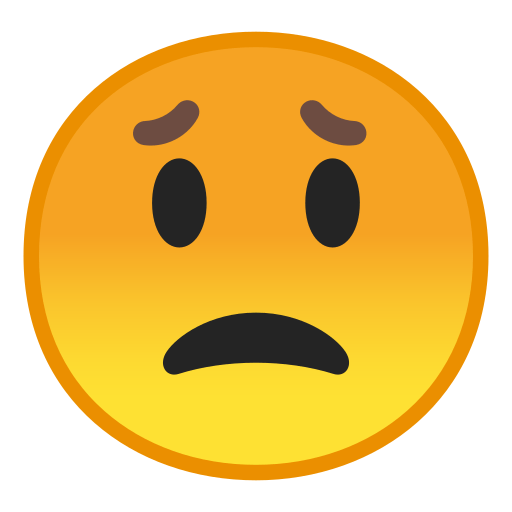
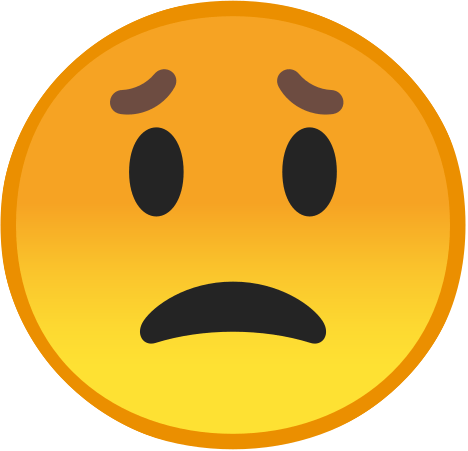
Hoo ha

diff --git a/templates/dashboard.html b/templates/dashboard.html
@@ -8,12 +8,76 @@
     <script src="https://cdnjs.cloudflare.com/ajax/libs/popper.js/1.16.0/umd/popper.min.js"></script>
     <script src="https://maxcdn.bootstrapcdn.com/bootstrap/4.4.1/js/bootstrap.min.js"></script>
     <script type="text/javascript" src="https://cdn.jsdelivr.net/npm/chart.js@2.9.3/dist/Chart.min.js"></script>
+    <link rel="stylesheet" href="https://cdnjs.cloudflare.com/ajax/libs/font-awesome/4.7.0/css/font-awesome.min.css">
     <title>Dashboard | MoodOfTheNation</title>
     <link rel="stylesheet" href="{{url_for('static', filename='styles.css')}}">
-    
+    <style>
+        h2{
+            font:Arial, Helvetica, sans-serif
+        }
+    .switch {
+      position: relative;
+      display: inline-block;
+      width: 60px;
+      height: 34px;
+    }
+
+    .switch input { 
+      opacity: 0;
+      width: 0;
+      height: 0;
+    }
+
+    .slider {
+      position: absolute;
+      cursor: pointer;
+      top: 0;
+      left: 0;
+      right: 0;
+      bottom: 0;
+      background-color: #ccc;
+      -webkit-transition: .4s;
+      transition: .4s;
+    }
+
+    .slider:before {
+      position: absolute;
+      content: "";
+      height: 26px;
+      width: 26px;
+      left: 4px;
+      bottom: 4px;
+      background-color: white;
+      -webkit-transition: .4s;
+      transition: .4s;
+    }
+
+    input:checked + .slider {
+      background-color: #2196F3;
+    }
+
+    input:focus + .slider {
+      box-shadow: 0 0 1px #2196F3;
+    }
+
+    input:checked + .slider:before {
+      -webkit-transform: translateX(26px);
+      -ms-transform: translateX(26px);
+      transform: translateX(26px);
+    }
+
+    /* Rounded sliders */
+    .slider.round {
+      border-radius: 34px;
+    }
+
+    .slider.round:before {
+      border-radius: 50%;
+    }
+    </style>
 </head>
 <body>
-    <nav class="navbar navbar-expand-sm bg-white navbar-light">
+    <nav class="navbar navbar-expand-sm bg-light navbar-light">
         <!-- Brand/logo -->
         <a class="navbar-brand" href="#">
             <img src={{url_for('static', filename='logo.png')}} style="height: 50px;">
@@ -59,26 +123,38 @@
         <div class="row" id="time">
         </div><hr><br><br>
         <div class="chart">
-          <a class="btn btn-dark" href="https://github.com/studentchetan/moodofthenation" role="button" style="text-transform:none;width:50%" id="login">
+          <a class="btn btn-dark" href="https://github.com/studentchetan/moodofthenation" role="button" style="text-transform:none;width:50%">
             OPEN SOURCED ON GITHUB
           </a><br><br>
-          <a class="btn btn-primary" href="#" role="button" style="text-transform:none;width:50%" id="login">
+          <a class="btn btn-primary" href="#" role="button" style="text-transform:none;width:50%">
             Join our discord server
           </a><br><br>
-          <a class="btn btn-info" href="https://github.com/studentchetan/moodofthenation" role="button" style="text-transform:none;width:50%" id="login">
+          <a class="btn btn-info" href="https://github.com/studentchetan/moodofthenation" role="button" style="text-transform:none;width:50%">
             Contribution guidelines
           </a>
           <br><br><br><br>
           <div class="alert alert-success" style="width: 50%;">More features to come soon...</div>
+          <br><hr><br><hr>
+          <!--
+          <u><h3>Account settings</h3></u><br><br>
+          <div id="darkmode">
+            Dark mode:&nbsp;&nbsp;
+            <label class="switch">
+              <input type="checkbox" id="darkmodebtn" onclick="changeMode()">
+              <span class="slider round"></span>
+            </label><br><br>
+            <button class="btn btn-danger">Update profile settings</button>
+          </div>
+          -->
         </div><br>
       </div>
-      <div class="col-lg-6 card">
+      <div class="col-lg-6 card" id="live">
         <div align='center' style="overflow: hidden;height:200px;">
           <br>
           <img src="{{url_for('static', filename='newspaper.jpeg')}}" alt="Happy" style="width: 100%;height: 300px;">
         </div>
         <hr>
-        <div id="latestnews" style="height:500px;overflow: scroll;">
+        <div id="latestnews" style="height:700px;overflow: scroll;">
           <div class="wrapper">
             <div class="wrapper-cell">
               <div class="text">
@@ -133,4 +209,5 @@
       </div>
 </body>
 <script src="{{url_for('static', filename='scripts.js')}}"></script>
+</script>
 </html>

diff --git a/static/scripts.js b/static/scripts.js
@@ -35,13 +35,13 @@ document.addEventListener('DOMContentLoaded', () => {
                 document.querySelector('#latestnews').innerHTML = contents;
                 
                 if (data.mood == 3){
-                    document.getElementById('emoji').innerHTML = `<img src="/static/download.jpeg" style="width: 150px;height: 150px;">`
+                    document.getElementById('emoji').innerHTML = `<img src="/static/download.png" style="width: 150px;height: 150px;">`
                     document.getElementById('mood_description').innerHTML = `The nation seems very happy!
                     Let's keep it up!
                     `
                     document.getElementById('mood_description').style.color = "green"
                 } else if (data.mood == 1){
-                    document.getElementById('emoji').innerHTML = `<img src="/static/terrified.jpeg" style="width: 150px;height: 150px;">`
+                    document.getElementById('emoji').innerHTML = `<img src="/static/terrified.png" style="width: 150px;height: 150px;">`
                     document.getElementById('mood_description').innerHTML = `Not in a very good shape, but keep your chin up!
                     `
                     document.getElementById('mood_description').style.color = "red"
@@ -63,13 +63,13 @@ document.addEventListener('DOMContentLoaded', () => {
                     if (data.current[i] == 3){
                         content += `
                             <div class="col-4 col-sm-4 col-lg-4">
-                                <img src="/static/download.jpeg" style="width: 80px;height: 80px;">
+                                <img src="/static/download.png" style="width: 80px;height: 80px;">
                             </div>
                         `
                     } else if (data.current[i] == 1){
                         content += `
                         <div class="col-4 col-sm-4 col-lg-4">
-                            <img src="/static/terrified.jpeg" style="width: 80px;height: 80px;">
+                            <img src="/static/terrified.png" style="width: 80px;height: 80px;">
                         </div>
                         `   
                     } else {

diff --git a/templates/index.html b/templates/index.html
@@ -11,10 +11,17 @@
     <style>
         body{
             margin-top: 14%;
+            background-color: white;
+            color: black;
         }
 
         h2{
             font:Arial, Helvetica, sans-serif
+        }
+
+        .dark-mode {
+            background-color: black;
+            color: white;
         }
     </style>
 </head>
@@ -29,6 +36,17 @@
             Login
         </a>
     </div>
-
+    <br><br><br>
+    <div align="center">
+        <a class="btn btn-dark" href="https://github.com/studentchetan/moodofthenation" role="button" style="text-transform:none;width:40%">
+            GITHUB
+        </a><br><br>
+        <a class="btn btn-primary" href="#" role="button" style="text-transform:none;width:40%">
+            DISCORD
+        </a><br><br>
+        <a class="btn btn-info" href="https://github.com/studentchetan/moodofthenation" role="button" style="text-transform:none;width:40%">
+            CONTRIBUTE
+        </a><br><br>
+    </div>
 </body>
 </html>

diff --git a/user.py b/user.py
@@ -30,7 +30,7 @@ class User(UserMixin):
 
     @staticmethod
     def create(id_, name, email, profile_pic):
-        db.execute("INSERT INTO users (id, name, email, profile_pic) VALUES (:id, :name, :email, :profile)",{"id":id_, "name":name, "email":email, "profile":profile_pic})
+        db.execute("INSERT INTO users (id, name, email, profile_pic, dark) VALUES (:id, :name, :email, :profile, :bool)",{"id":id_, "name":name, "email":email, "profile":profile_pic, 'bool':'f'})
         db.commit()
         db.close()
     

diff --git a/app.py b/app.py
@@ -171,6 +171,7 @@ def latest_news():
 def news():
     return render_template('news.html')
 
+
 @app.errorhandler(404)
 def page_not_found(e):
     # note that we set the 404 status explicitly
